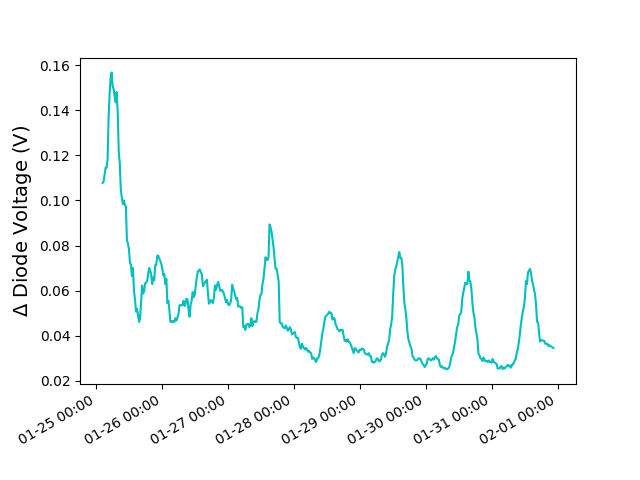
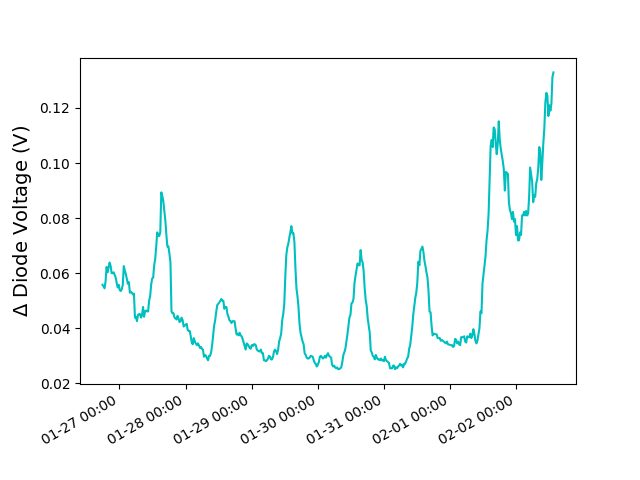
changed # of data points passed through the egg end point, and set timedelta to 1

diff --git a/firebase.py b/firebase.py
@@ -10,10 +10,6 @@ from firebase_admin import db
 from firebase_admin import credentials
 import pytz
 
-import threading
-import time
-
-
 matplotlib.use('agg')
 
 def login(key_dict):
@@ -63,26 +59,7 @@ def to_datetime(dates, tz_aware=True):
             i_dt = tz.localize(i_dt)
 
         dt.append(i_dt)
-    return np.array(dt)
-
-def check_egg_data():
-    email_sent = False
-    while email_sent is False:
-        ref_data = db.reference('/egg_eye_1/data')
-        data = dict()
-        data['data'] = ref_data.order_by_key().limit_to_last(3).get()
-        on = np.array([int(data['data'][i]['on']) for i in data['data']])
-        off = np.array([int(data['data'][i]['off']) for i in data['data']])
-        v = (on - off)/1024
-        
-        for datum in v:
-            if datum > 0.6:
-                print("Triggered an email")
-                email_sent = True
-                break
-
-        time.sleep(60)
-  
+    return np.array(dt)  
 
 
 class bmass_sensor():
@@ -135,10 +112,8 @@ class egg_sensor():
         # date_fmt = '%m-%d %H:%M'
         date_fmt = '%I:%M%p'
         date_formatter = mdates.DateFormatter(date_fmt, tz=(pytz.timezone("US/Eastern")))
-        lower = self.d_dt[-1] - timedelta(days=7)
-        # upper = self.d_dt[-1-mv]
+        lower = self.d_dt[-1] - timedelta(days=100)
 
-        #potentially learn & use a different smoothing algorithm??
         window = (self.d_dt > lower)
         v = moving_average(self.v[window], mv)
 

diff --git a/app.py b/app.py
@@ -108,16 +108,9 @@ def show_pond(pond_id):
 def feedback():
     return render_template('feedback.html',ponds=ponds)
 
-@app.route('/monitor_eggs')
-def monitor_eggs():
-    firebase.check_egg_data()
-    return('Manually triggered check')
-
-#600 datapoints = ~7 days?
-#85 = ~24 hrs?
 @app.route('/eggs')
 def eggs():
-    egg = firebase.egg_sensor(1000)
+    egg = firebase.egg_sensor(2880)
     last_dt = egg.d_dt[-1]
     str_date = last_dt.strftime('%A, %B %d')
     str_time = last_dt.strftime('%I:%M %p')
